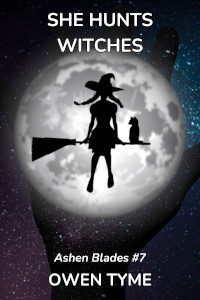
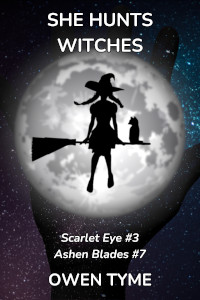
Cover updates for Ashen Blades
All covers for future books now reflect their current planned order, including the sub-series, Scarlet Eye.

In particular, the preliminary cover for Eye of War has been uploaded.

Changed region(s): [[0.27, 0.78, 0.75, 0.9]]

diff --git a/books/ashen-blades/index.html b/books/ashen-blades/index.html
@@ -450,16 +450,17 @@ foothold in the galaxy?</p>
 <h2 id="eye-of-war">Eye of War</h2>
 <p><img src="../../images/badges/status-planning.svg" /></p>
 <blockquote>
-<p>With the United Nations of the South Galaxy caught up in a protected
-and lengthy war with the Eastern Coalition that’s already lasted 200
-years, planet Neo York is ordered to provide soldiers for the war effort
-and the means chosen by the planet’s ruling council is a random draft.
-One would think a half-demon, a demon, a vampire and a fairy that don’t
-officially exist and are thousands of years old would be exempt for
-reasons of age, but they’re caught by a particularly persistent census
-worker and subsequently labeled as draft dodgers. Unfortunately there’s
-only one punishment available for draft dodgers: compulsory military
-service.</p>
+<p><span class="book-cover"> <img
+src="../../images/Cover-EyeOfWar.jpg" /> </span> With the United Nations
+of the South Galaxy caught up in a protected and lengthy war with the
+Eastern Coalition that’s already lasted 200 years, planet Neo York is
+ordered to provide soldiers for the war effort and the means chosen by
+the planet’s ruling council is a random draft. One would think a
+half-demon, a demon, a vampire and a fairy that don’t officially exist
+and are thousands of years old would be exempt for reasons of age, but
+they’re caught by a particularly persistent census worker and
+subsequently labeled as draft dodgers. Unfortunately there’s only one
+punishment available: compulsory military service.</p>
 <p>Thus, the members of the <em>Scarlet Eye Detective Agency</em> become
 soldiers and the half-demon takes particular issue with the situation,
 because she strongly believes that killing humans is wrong, no matter
@@ -479,9 +480,9 @@ darker half.</p>
 in matters, turning it into the biggest butcher shop the human race has
 ever seen and demons rise within the minds of soldiers on both
 sides.</p>
-<p>And every time the team meets a demom along the way, they share the
-same message: “Surrender my eye and my title, or I’ll keep this war
-going for the next thousand years!”</p>
+<p>Every time the team meets a demom along the way, they share the same
+message: “Surrender my eye and my title, or I’ll keep this war going for
+the next thousand years!”</p>
 <p>Will the team find a solution to this mess, or will Balor kill them
 and take everything he wants?</p>
 </blockquote>
